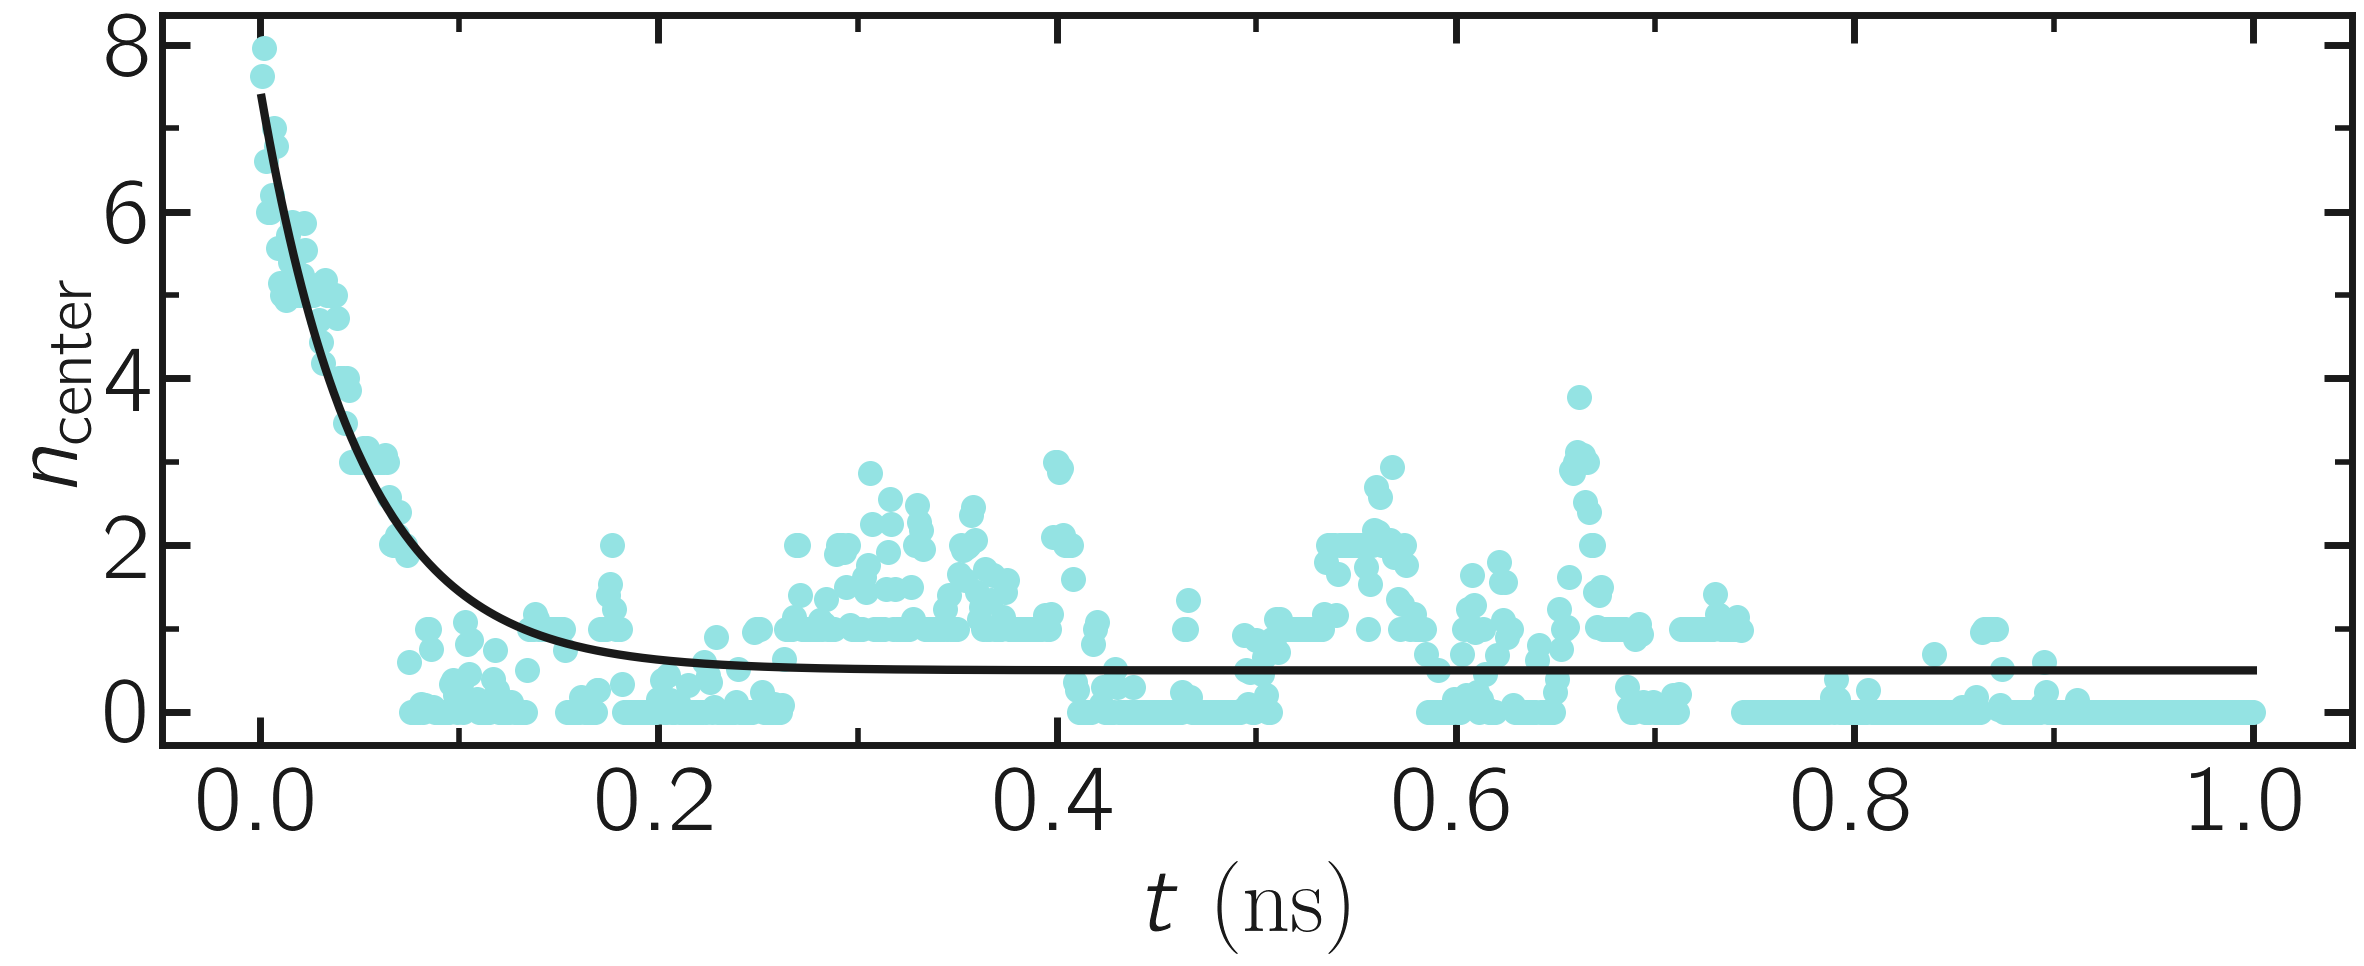
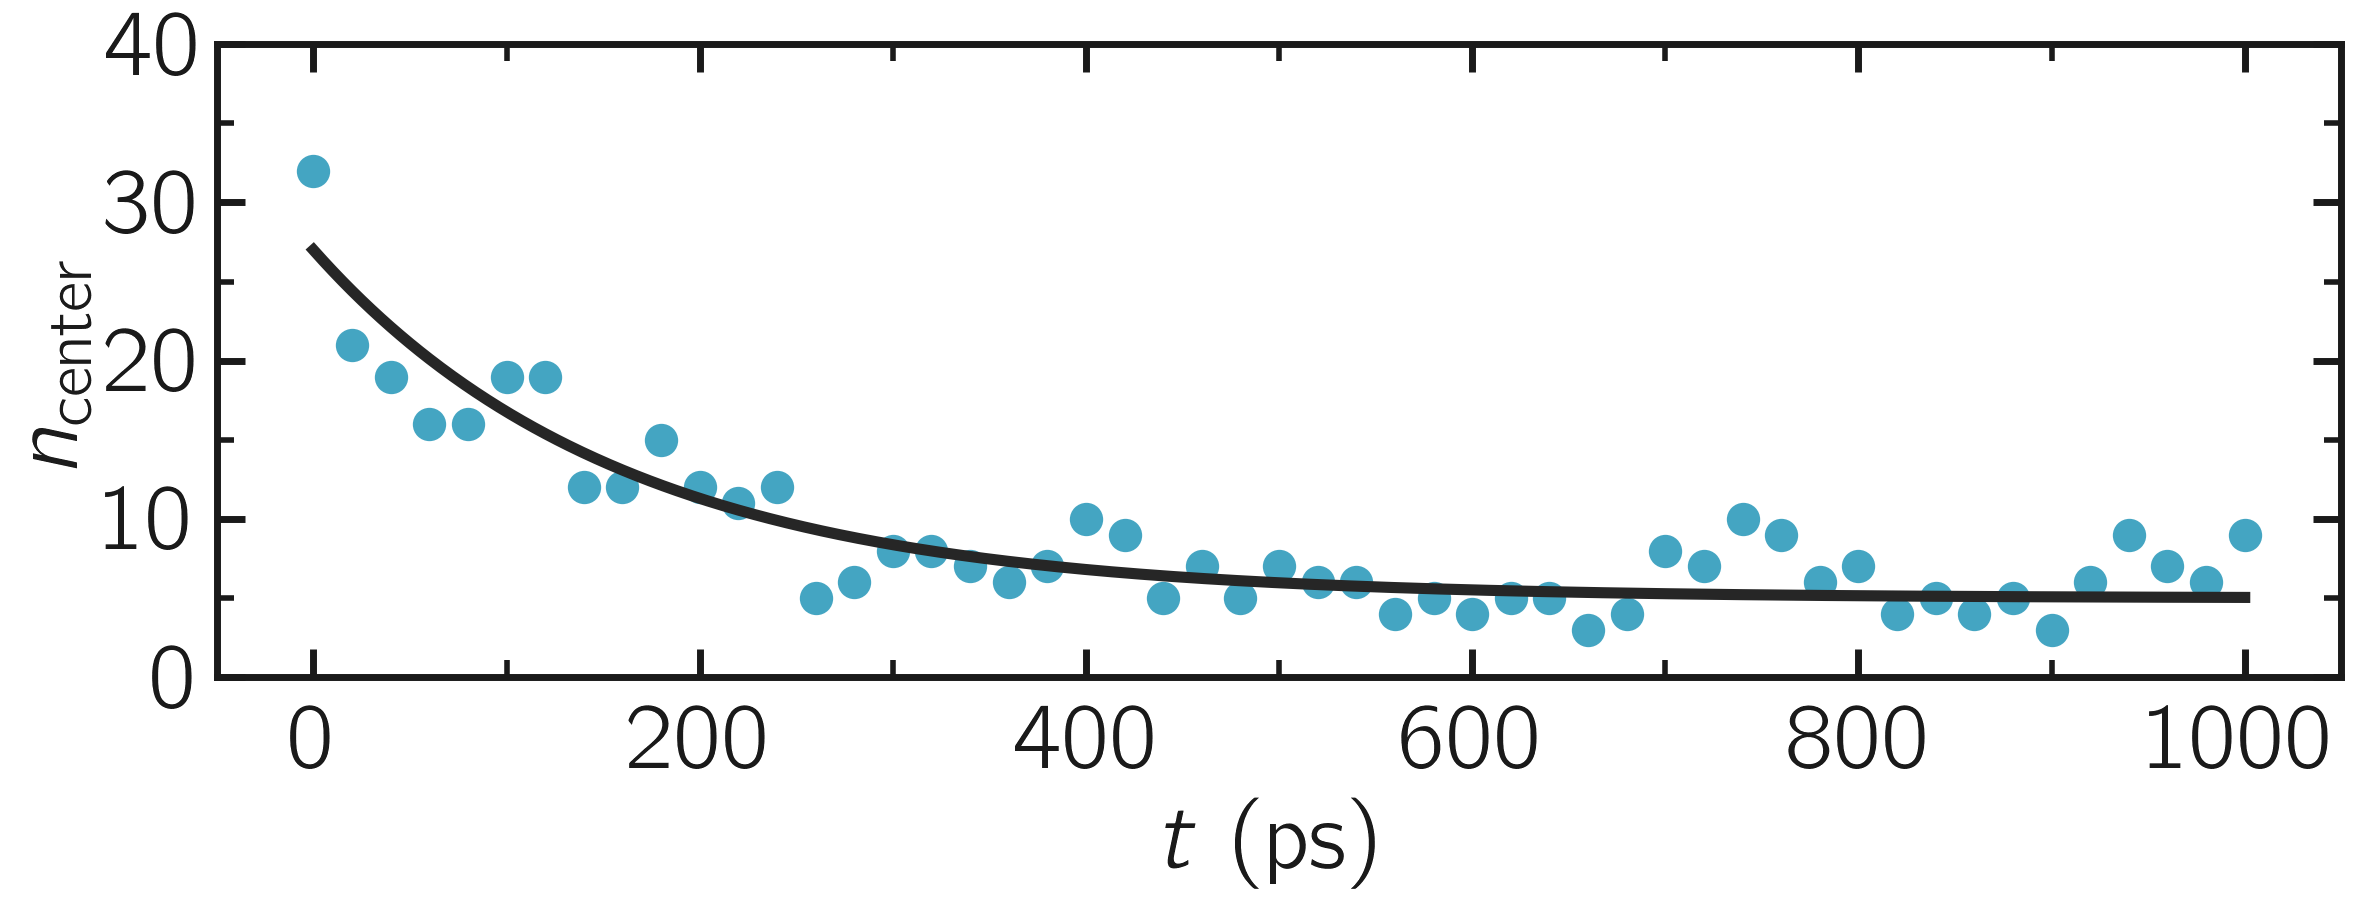
updated figure 42 - tutorial 7

diff --git a/lammps-tutorials.tex b/lammps-tutorials.tex
@@ -3623,11 +3623,11 @@ F = \dfrac{U_0}{\delta} \left[ \dfrac{1}{(x-x_0)^2/\delta^2+1}
 \label{eq:F}
 \end{equation}
 Fig.\,\ref{fig:potential} shows the potential $U$ and force $F$ along the $x$-axis.
-With $U_0 = 1.5 \epsilon = 0.36\,\text{kcal/mol}$, $U_0$ is of the same order as the
+With $U_0 = 1.5 \epsilon = 0.36\,\text{kcal/mol}$, $U_0$ is comparable to
 thermal energy $k_\text{B} T = 0.24\,\text{kcal/mol}$, where $k_\text{B} = 0.002\,\text{kcal/mol/K}$
-is the Boltzmann constant and $T = 119.8\,\text{K}$ the temperature that will be
-used here.  In this case, particles are expected to regularly overcome the
-energy barrier thanks to the thermal agitation.
+is the Boltzmann constant and $T = 119.8\,\text{K}$ is the temperature
+used in this simulation.  Under these conditions, particles are expected to
+frequently overcome the energy barrier due to thermal agitation.
 
 \begin{figure}
 \centering
@@ -3638,7 +3638,7 @@ $U_0 = 0.36~\text{kcal/mol}$, $\delta = 0.5~\mathrm{\AA{}}$, and $x_0 = 5~\mathr
 \label{fig:potential}
 \end{figure}
 
-Let us impose the force $F(x)$ to the atoms in the simulation
+We impose the force $F(x)$ to the atoms in the simulation
 using the \lmpcmd{fix addforce} command.  Add the following
 lines to \flecmd{free-energy.lmp}:
 \begin{lstlisting}
@@ -3648,18 +3648,19 @@ variable F atom ${U0}/((x-${x0})^2/${dlt}^2+1)/${dlt}&
     -${U0}/((x+${x0})^2/${dlt}^2+1)/${dlt}
 fix myadf all addforce v_F 0.0 0.0 energy v_U
 \end{lstlisting}
-Let us combine the \lmpcmd{fix nve} with a \lmpcmd{fix langevin} thermostat:
+Next, we combine the \lmpcmd{fix nve} with a \lmpcmd{fix langevin} thermostat:
 \begin{lstlisting}
 fix mynve all nve
 fix mylgv all langevin 119.8 119.8 50 30917
 \end{lstlisting}
-When combining these two commands, the MD simulation is effectively
-in the NVT ensemble: constant number of atoms $N$, constant volume
-$V$, and constant temperature $T$.
+When combining these two commands, the MD simulation operates
+in the NVT ensemble, maintaining a constant number of
+atoms $N$, constant volume $V$, and a temperature $T$ that
+fluctuates around a target value.
 
-To make sure that the equilibration time is sufficient, we will record the evolution of
-the number of atoms in the central (energetically unfavorable) region called \lmpcmd{mymes}
-using the \lmpcmd{n\_center} variable:
+To ensure that the equilibration time is sufficient, we will track the evolution of
+the number of atoms in the central (energetically unfavorable) region,
+referred to as \lmpcmd{mymes}, using the \lmpcmd{n\_center} variable:
 \begin{lstlisting}
 region mymes block -${x0} ${x0} INF INF INF INF
 variable n_center equal count(all,mymes)
@@ -3671,7 +3672,7 @@ dump viz all image 50000 myimage-*.ppm type type &
 dump_modify viz backcolor white acolor 1 cyan adiam 1 1 &
     boxcolor black
 \end{lstlisting}
-A \lmpcmd{dump image} was also added for system visualization.
+A \lmpcmd{dump image} command was added for system visualization.
 
 Finally, let us perform an equilibration of 500000 steps
 in total, using a timestep of $2\,\text{fs}$ (i.e.~a total duration of $1\,\text{ns}$):
@@ -3681,7 +3682,7 @@ run 500000
 \end{lstlisting}
 Run the simulation with LAMMPS. The number of atoms in the
 central region, $n_\mathrm{center}$, reaches
-its equilibrium value after approximately $0.1\,\text{ns}$
+its equilibrium value after approximately $500\,\text{ps}$
 (Fig.\,\ref{fig:US-density-evolution}).  A snapshot of the
 equilibrated system is shown in Fig.\,\ref{fig:US-system-unbiased}.
 
@@ -3707,8 +3708,8 @@ duration of the last run to obtain a better-resolved density profile.
 \centering
 \includegraphics[width=\linewidth]{US-density-evolution}
 \caption{Evolution of the number of atoms $n_\text{center}$ in the central
-region \textit{mymes} as a function of time $t$ during equilibration. The dark line
-serves as a guide for the eyes. Here, $U_0 = 0.36~\text{kcal/mol}$,
+region \lmpcmd{mymes} as a function of time $t$ during equilibration.  The dark line
+is $n_\text{center} = 22 \exp(-t/160)+5$ and serves as a guide for the eyes.  Here, $U_0 = 0.36~\text{kcal/mol}$,
 $\delta = 0.5~\mathrm{\AA{}}$, and $x_0 = 5~\mathrm{\AA{}}$.}
 \label{fig:US-density-evolution}
 \end{figure}
